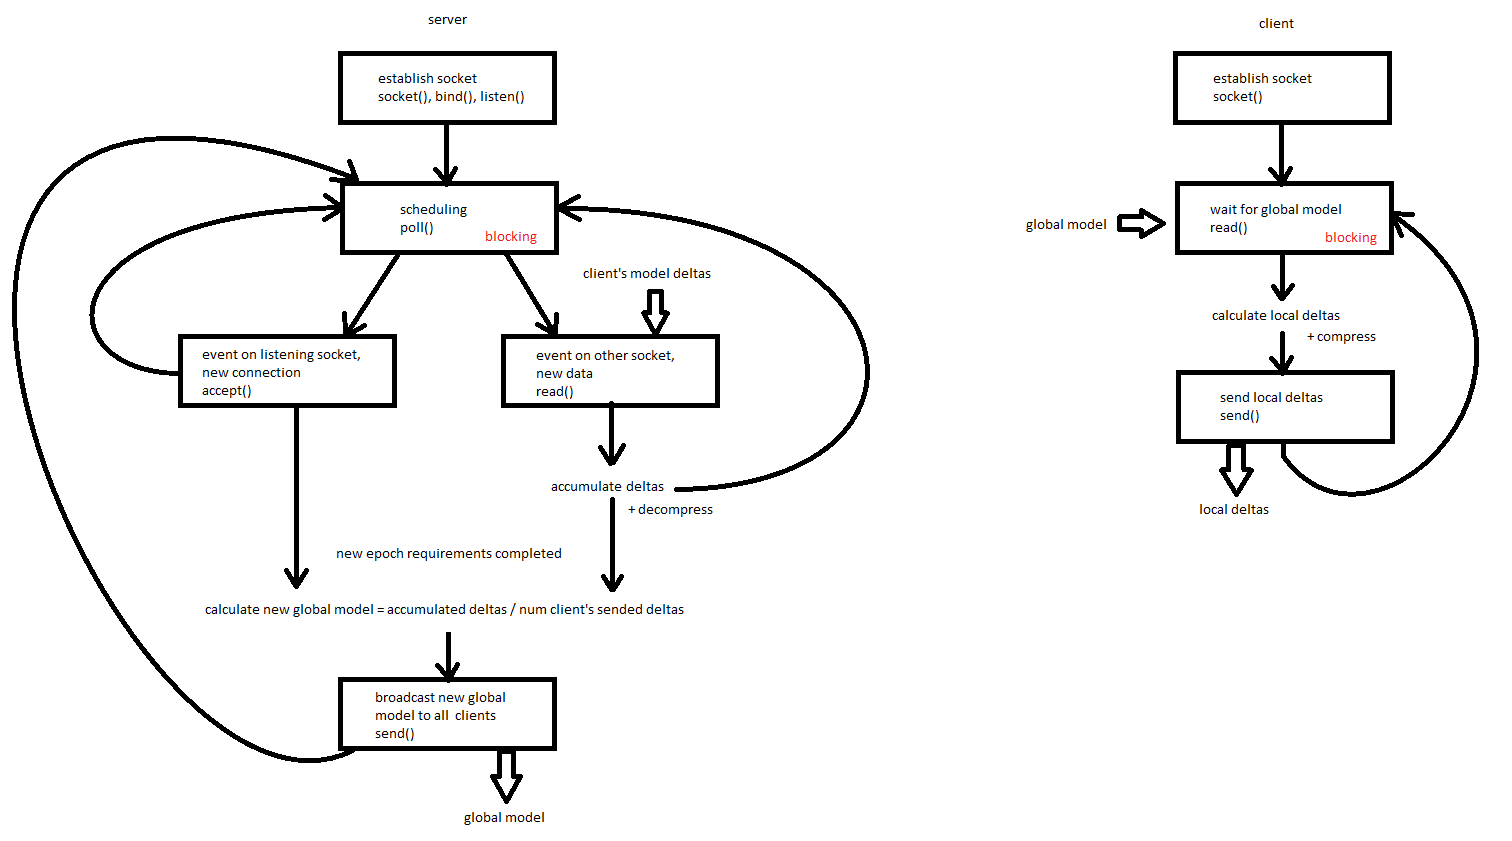
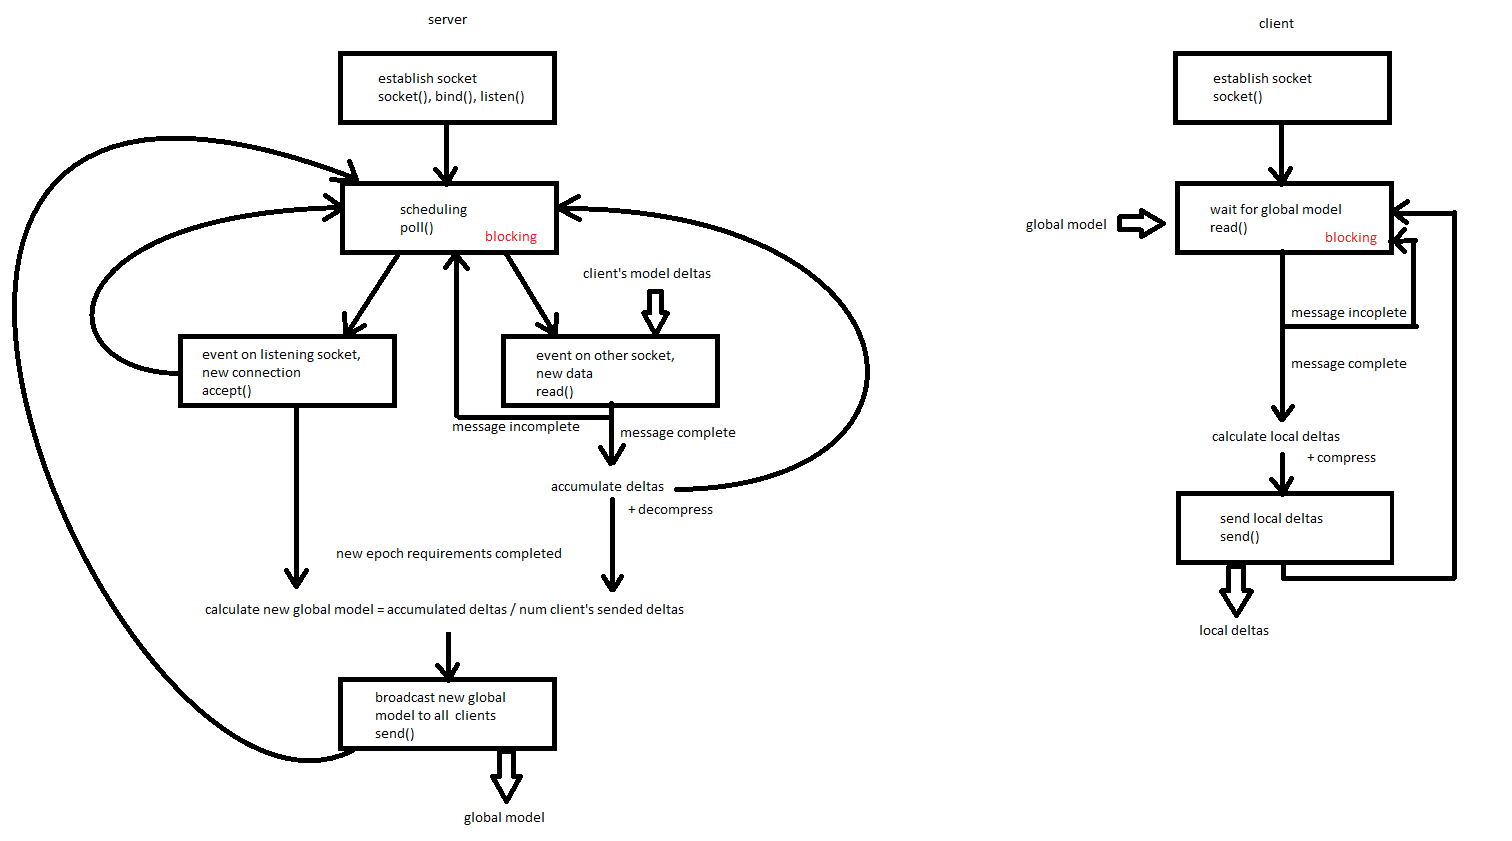
6.0: unit tests, διαβασμα μυνημάτων από client
Διάφορα unit tests για serialize, deserialize

Ο client πέρνει σωστά τα μυνήματα, κολώντας όλα τα κομμάτια τους.

network draft προστέθηκε μονοπάτι για ατελή μυνήματα

Changed region(s): [[0.7771, 0.2473, 0.9947, 0.7729], [0.2798, 0.3092, 0.4974, 0.5256]]

diff --git a/code/unit_tests.cpp b/code/unit_tests.cpp
@@ -1,0 +1,167 @@
+/**
+ * @file unit_tests.cpp
+ * @author Emmanouil Petrakos
+ * @brief 
+ * @version 0.1
+ * @date 26/07/2021
+ * 
+ * @copyright Copyright (c) 2021
+ * 
+ */
+
+#include <iostream>
+#include <bitset>
+
+#include <assert.h>		/* assert */
+#include <stdlib.h>		/* srand, rand */
+#include <time.h>		/* time */
+#include <string.h>
+
+#include "messages.h"
+
+using namespace std;
+
+int test_server_message()
+{
+	server_to_client_msg input;
+	server_to_client_msg output;
+	static unsigned char buffer[SERVER_TO_CLIENT_BUF_SIZE];
+
+	/* initialize random seed: */
+	srand (time(NULL));
+
+	/* Randomize input */
+	input.epoch = rand();
+
+	for( int i = 0 ; i < WEIGHTS_NUM ; i++ )
+		input.weights[i] = (float) rand();
+
+	/* serialize - desirialize */
+	serialize_server_to_client_msg( &input , buffer );
+	deserialize_server_to_client_msg( &output , buffer );
+
+	/* test */
+	if( input.epoch != output.epoch )
+		return 0;
+
+	for( int i = 0 ; i < WEIGHTS_NUM ; i++ )
+		if( input.weights[i] != output.weights[i] )
+			return 0;
+
+cout << input.epoch << "		" << output.epoch << endl;
+cout << input.weights[0] << "		" << output.weights[0] << endl;
+cout << input.weights[WEIGHTS_NUM-1] << "		" << output.weights[WEIGHTS_NUM-1] << endl;
+
+	return 1;
+}
+
+
+int test_client_message()
+{
+	client_to_server_msg input;
+	client_to_server_msg output;
+	static unsigned char buffer[SERVER_TO_CLIENT_BUF_SIZE];
+
+	/* initialize random seed: */
+	srand (time(NULL));
+
+	/* Randomize input */
+	input.epoch = rand();
+	input.loss = (float) rand();
+	input.accuracy = (float) rand();
+
+	for( int i = 0 ; i < WEIGHTS_NUM ; i++ )
+		input.weights[i] = (float) rand();
+
+	/* serialize - desirialize */
+	serialize_client_to_server_msg( &input , buffer );
+	deserialize_client_to_server_msg( &output , buffer );
+
+	/* test */
+	if( input.epoch != output.epoch )
+		return 0;
+
+	if( input.loss != output.loss )
+		return 0;
+
+	if( input.accuracy != output.accuracy )
+		return 0;
+
+	for( int i = 0 ; i < WEIGHTS_NUM ; i++ )
+		if( input.weights[i] != output.weights[i] )
+			return 0;
+
+cout << input.epoch << "		" << output.epoch << endl;
+cout << input.weights[0] << "		" << output.weights[0] << endl;
+cout << input.weights[WEIGHTS_NUM-1] << "		" << output.weights[WEIGHTS_NUM-1] << endl;
+
+	return 1;
+}
+
+union Y
+{
+	int a[4];
+	unsigned char x[16];
+};
+int union_test()
+{
+
+	Y y = {{1,2,3,4}};
+	
+    for (int i = 0 ; i < (int) sizeof(y.x) ; i ++) {
+        printf(" %02x", y.x[i]);
+    }
+    putchar('\n');
+
+	return 1;
+}
+
+
+union X
+{
+	server_to_client_msg msg;
+	unsigned char buffer[SERVER_TO_CLIENT_BUF_SIZE];
+};
+int union_test_b()
+{
+	X a;
+
+	/* Randomize input */
+	a.msg.epoch = rand();
+	for( int i = 0 ; i < WEIGHTS_NUM ; i++ )
+		a.msg.weights[i] = (float) rand();
+
+	/* Copy */
+	int counter = 0;
+
+	int step = SERVER_TO_CLIENT_BUF_SIZE/4;
+
+	X b;
+
+	for ( int i = 0 ; i < 4 ; i++ )
+	{
+		memcpy( &(b.buffer[counter]) , &(a.buffer[counter]) , step );
+		counter += step;
+	}
+
+	/* test */
+	if( a.msg.epoch != b.msg.epoch )
+		return 0;
+
+	for( int i = 0 ; i < WEIGHTS_NUM ; i++ )
+		if( a.msg.weights[i] != b.msg.weights[i] )
+			return 0;
+
+	return 1;
+}
+
+
+
+
+int main ( int argc , char** argv )
+{
+	//cout << test_server_message() << endl;
+	//cout << test_client_message() << endl;
+
+	cout << union_test_b() << endl;
+}

diff --git a/code/client.cpp b/code/client.cpp
@@ -65,16 +65,20 @@ int main ( int argc , char** argv )
 	/*************************************************************/
 	/* Main loop.                                                */
 	/*************************************************************/
+	int counter = 0; // counts total received bytes per message
+	static server_to_client_msg received_message; // struct to hold message
+
 	while ( 1 )
 	{
 		/*************************************************************/
 		/* wait for global model and read it. Blocking.              */
 		/*************************************************************/
-		cout << CURRENT_TIME << "	Waiting for global model." << endl;
+		cout << CURRENT_TIME << "	Waiting for data." << endl;
 
 		// read socket
-		unsigned char buffer[SERVER_TO_CLIENT_BUF_SIZE];
+		static unsigned char buffer[SERVER_TO_CLIENT_BUF_SIZE];
 		rv = recv( socket_fd , buffer , SERVER_TO_CLIENT_BUF_SIZE , 0 );
+
 
 		// something went wrong
 		if ( rv < 0 )
@@ -94,13 +98,28 @@ int main ( int argc , char** argv )
 			break;
 		}
 
+		// message may come in many parts. Concate them
+		memcpy( &(((unsigned char*)&received_message)[counter]) , buffer , rv );
+		counter += rv;
+
+		cout << CURRENT_TIME << "	received bytes: " << rv << "	total: " << counter << "	needed: " << SERVER_TO_CLIENT_BUF_SIZE << endl;
+
 		// check if received message is complete
-		if ( rv < SERVER_TO_CLIENT_BUF_SIZE )										// TODO: test
+		if ( counter < SERVER_TO_CLIENT_BUF_SIZE )
+			// if not wait for the rest of the data
 			continue;
 		
-		// deserialize it
-		server_to_client_msg received_message;
-		deserialize_server_to_client_msg( &received_message , buffer );
+
+		// message is complete, continue
+
+		cout << CURRENT_TIME << "	Received global model." << endl;
+		counter = 0; // reset counter for the next message
+
+		// test if expected data received / remove when real data is send
+		for( int i = 0 ; i < WEIGHTS_NUM ; i++ )
+			if( received_message.weights[i] != 1)
+				putchar('!');
+		//cout << received_message.weights[WEIGHTS_NUM - 1] << endl;
 
 		/*************************************************************/
 		/* calculate deltas.                                         */
@@ -116,7 +135,7 @@ int main ( int argc , char** argv )
 		/* send local deltas. Non blocking.                          */
 		/*************************************************************/
 		// create message
-		client_to_server_msg send_message;
+		static client_to_server_msg send_message;
 		send_message.epoch = received_message.epoch;
 
 		// send message

diff --git a/code/server.cpp b/code/server.cpp
@@ -11,7 +11,6 @@
 
 #include <iostream>		/* << */
 
-#include <assert.h>		/* assert */
 #include <stdlib.h>		/* atoi */
 #include <unistd.h>		/* close */
 #include <string.h>		/* memset */
@@ -299,9 +298,11 @@ int main( int argc , char** argv )
 			else
 				current_epoch++;
 
-			// create global model
+			// create global model / fake for now
 			server_to_client_msg announcement_msg;
 			announcement_msg.epoch = current_epoch;
+			for( int i = 0; i < WEIGHTS_NUM ; i++ )
+				announcement_msg.weights[i] = 1;
 
 			create_new_global_model();
 
@@ -438,11 +439,10 @@ int announce_global_model(
 	server_to_client_msg* message )
 {
 	int rv;
-	unsigned char buffer[SERVER_TO_CLIENT_BUF_SIZE];
 
-	//sprintf( buffer , "%d" , epoch);
-	// serialize data
-	serialize_server_to_client_msg( message , buffer );										// TODO: test
+	// serialize data - uncomment if network byte orded need to be respected
+	//static unsigned char buffer[SERVER_TO_CLIENT_BUF_SIZE];
+	//serialize_server_to_client_msg( message , buffer );
 
 
 	// first descriptor is the listening socket. Start from second
@@ -450,7 +450,7 @@ int announce_global_model(
 	{
 		cout << CURRENT_TIME << "	Sending Global Model to client: " << i << endl;
 
-		rv = send( polled_fds[i].fd , buffer , SERVER_TO_CLIENT_BUF_SIZE , 0 );
+		rv = send( polled_fds[i].fd , message , SERVER_TO_CLIENT_BUF_SIZE , 0 ); // message -> buffer if nbo respected
 		
 		// send failed
 		if ( rv < 0 )

diff --git a/code/messages.cpp b/code/messages.cpp
@@ -9,25 +9,27 @@
  * 
  */
 
+#include <string.h> /* memcpy */
+
 #include "messages.h"
 
 
 void serialize_server_to_client_msg(server_to_client_msg* message , unsigned char* buffer )
 {
-
+	memcpy( buffer , message , sizeof(server_to_client_msg) );
 }
 
 void deserialize_server_to_client_msg(server_to_client_msg* message , unsigned char* buffer )
 {
-
+	memcpy( message , buffer , sizeof(server_to_client_msg) );
 }
 
 void serialize_client_to_server_msg(client_to_server_msg* message , unsigned char* buffer )
 {
-
+	memcpy( buffer , message , sizeof(client_to_server_msg) );
 }
 
 void deserialize_client_to_server_msg(client_to_server_msg* message , unsigned char* buffer )
 {
-    
+	memcpy( message , buffer , sizeof(client_to_server_msg) );
 }

diff --git a/code/messages.h b/code/messages.h
@@ -25,9 +25,9 @@ struct server_to_client_msg
 struct client_to_server_msg
 {
     int epoch;
-    float weights[WEIGHTS_NUM];
     float loss;
     float accuracy;
+    float weights[WEIGHTS_NUM];
 };
 
 void serialize_server_to_client_msg(server_to_client_msg* message , unsigned char* buffer );
